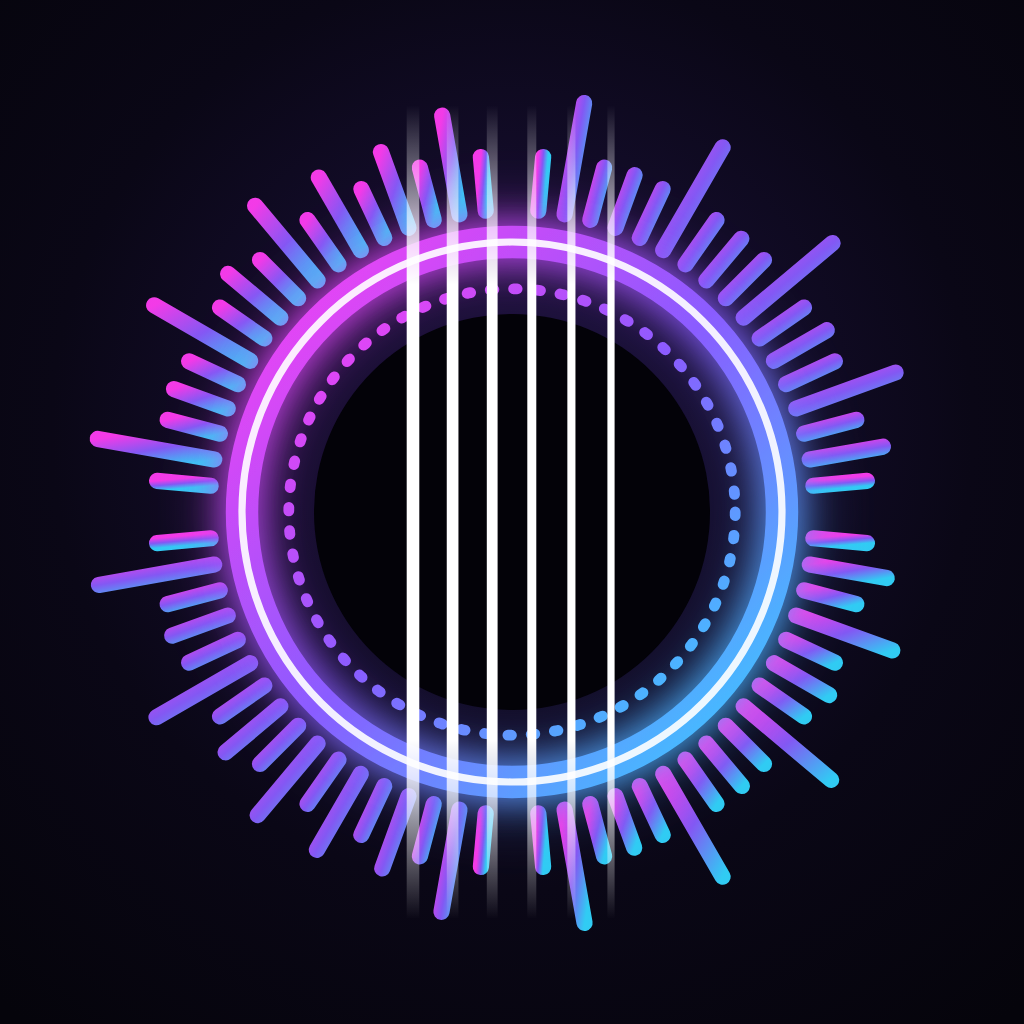
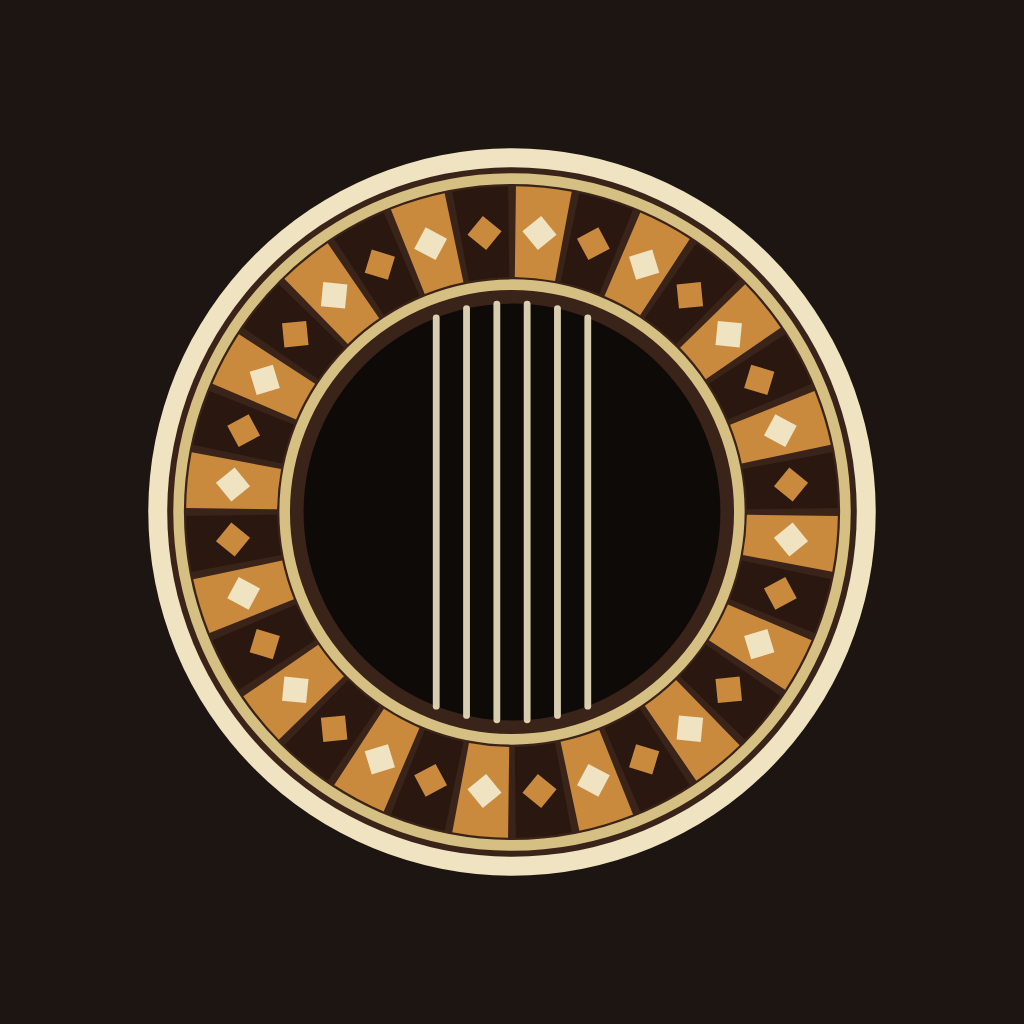
Ny logga: mosaikrosetten, även som appikon
- Rosetten runt ljudhålet, med mosaikring och strängar, i sidhuvudet (följer temat)
- Nya appikoner, favicon och startskärm på valnötsbrun bakgrund i stället för den gamla neonikonen
- Android-bygget använder valnötsbrun bakgrund för ikon och startskärm
- manifest: nya färger och beskrivning utan Guitar Hero
- sw.js VERSION v130

Claude-Session: https://claude.ai/code/session_01ECUgMogSAJEoXHiLmbF9aF

diff --git a/index.html b/index.html
@@ -3009,11 +3009,8 @@ const I = {
   mute: html`<svg class="icon" viewBox="0 0 24 24" fill="none" stroke="currentColor" stroke-width="2" stroke-linecap="round" stroke-linejoin="round" aria-hidden="true"><path d="M11 5 6 9H3v6h3l5 4V5z"/><path d="m22 9-6 6M16 9l6 6"/></svg>`,
   spark: html`<svg class="icon" viewBox="0 0 24 24" fill="none" stroke="currentColor" stroke-width="2" stroke-linecap="round" stroke-linejoin="round" aria-hidden="true"><path d="M12 3v4M12 17v4M3 12h4M17 12h4M6 6l2.5 2.5M15.5 15.5 18 18M6 18l2.5-2.5M15.5 8.5 18 6"/></svg>`,
 };
-const Rosette = html`<svg width="34" height="34" viewBox="0 0 34 34" aria-hidden="true">
-  <circle cx="17" cy="17" r="16" fill="var(--brass)"/>
-  <circle cx="17" cy="17" r="11.5" fill="none" stroke="var(--brass-ink)" stroke-width="1.4" stroke-dasharray="2 1.6"/>
-  <circle cx="17" cy="17" r="8.5" fill="var(--brass-ink)"/>
-  <path d="M10 15.5h14M10 18.5h14" stroke="var(--bone)" stroke-width=".9" opacity=".8"/></svg>`;
+// Mosaikrosetten: rosetten runt ljudhålet på en klassisk gitarr
+const Rosette = html`<svg width="34" height="34" viewBox="0 0 100 100" aria-hidden="true"><circle cx="50" cy="50" r="48" fill="var(--brass)"/><circle cx="50" cy="50" r="45.5" fill="var(--surface)"/><path d="M50.52 7.00A43 43 0 0 1 62.80 8.95L59.23 20.40A31 31 0 0 0 50.37 19.00Z" fill="var(--brass)"/><path d="M63.78 9.27A43 43 0 0 1 74.86 14.91L67.92 24.70A31 31 0 0 0 59.93 20.63Z" fill="var(--text)"/><path d="M75.69 15.52A43 43 0 0 1 84.48 24.31L74.86 31.48A31 31 0 0 0 68.52 25.14Z" fill="var(--brass)"/><path d="M85.09 25.14A43 43 0 0 1 90.73 36.22L79.37 40.07A31 31 0 0 0 75.30 32.08Z" fill="var(--text)"/><path d="M91.05 37.20A43 43 0 0 1 93.00 49.48L81.00 49.63A31 31 0 0 0 79.60 40.77Z" fill="var(--brass)"/><path d="M93.00 50.52A43 43 0 0 1 91.05 62.80L79.60 59.23A31 31 0 0 0 81.00 50.37Z" fill="var(--text)"/><path d="M90.73 63.78A43 43 0 0 1 85.09 74.86L75.30 67.92A31 31 0 0 0 79.37 59.93Z" fill="var(--brass)"/><path d="M84.48 75.69A43 43 0 0 1 75.69 84.48L68.52 74.86A31 31 0 0 0 74.86 68.52Z" fill="var(--text)"/><path d="M74.86 85.09A43 43 0 0 1 63.78 90.73L59.93 79.37A31 31 0 0 0 67.92 75.30Z" fill="var(--brass)"/><path d="M62.80 91.05A43 43 0 0 1 50.52 93.00L50.37 81.00A31 31 0 0 0 59.23 79.60Z" fill="var(--text)"/><path d="M49.48 93.00A43 43 0 0 1 37.20 91.05L40.77 79.60A31 31 0 0 0 49.63 81.00Z" fill="var(--brass)"/><path d="M36.22 90.73A43 43 0 0 1 25.14 85.09L32.08 75.30A31 31 0 0 0 40.07 79.37Z" fill="var(--text)"/><path d="M24.31 84.48A43 43 0 0 1 15.52 75.69L25.14 68.52A31 31 0 0 0 31.48 74.86Z" fill="var(--brass)"/><path d="M14.91 74.86A43 43 0 0 1 9.27 63.78L20.63 59.93A31 31 0 0 0 24.70 67.92Z" fill="var(--text)"/><path d="M8.95 62.80A43 43 0 0 1 7.00 50.52L19.00 50.37A31 31 0 0 0 20.40 59.23Z" fill="var(--brass)"/><path d="M7.00 49.48A43 43 0 0 1 8.95 37.20L20.40 40.77A31 31 0 0 0 19.00 49.63Z" fill="var(--text)"/><path d="M9.27 36.22A43 43 0 0 1 14.91 25.14L24.70 32.08A31 31 0 0 0 20.63 40.07Z" fill="var(--brass)"/><path d="M15.52 24.31A43 43 0 0 1 24.31 15.52L31.48 25.14A31 31 0 0 0 25.14 31.48Z" fill="var(--text)"/><path d="M25.14 14.91A43 43 0 0 1 36.22 9.27L40.07 20.63A31 31 0 0 0 32.08 24.70Z" fill="var(--brass)"/><path d="M37.20 8.95A43 43 0 0 1 49.48 7.00L49.63 19.00A31 31 0 0 0 40.77 20.40Z" fill="var(--text)"/><circle cx="50" cy="50" r="44" fill="none" stroke="var(--brass)" strokeWidth="2.2"/><circle cx="50" cy="50" r="30" fill="none" stroke="var(--brass)" strokeWidth="2.2"/><circle cx="50" cy="50" r="27.5" fill="#1a120d"/><line x1="40.00" y1="24.38" x2="40.00" y2="75.62" stroke="#efe3c2" strokeWidth="1.6" strokeLinecap="round" opacity=".9"/><line x1="44.00" y1="23.16" x2="44.00" y2="76.84" stroke="#efe3c2" strokeWidth="1.6" strokeLinecap="round" opacity=".9"/><line x1="48.00" y1="22.57" x2="48.00" y2="77.43" stroke="#efe3c2" strokeWidth="1.6" strokeLinecap="round" opacity=".9"/><line x1="52.00" y1="22.57" x2="52.00" y2="77.43" stroke="#efe3c2" strokeWidth="1.6" strokeLinecap="round" opacity=".9"/><line x1="56.00" y1="23.16" x2="56.00" y2="76.84" stroke="#efe3c2" strokeWidth="1.6" strokeLinecap="round" opacity=".9"/><line x1="60.00" y1="24.38" x2="60.00" y2="75.62" stroke="#efe3c2" strokeWidth="1.6" strokeLinecap="round" opacity=".9"/></svg>`;
 
 /* ---------------------------------------------------------------- components */
 function Diagram({ k, easy, selected, onClick, hide = false }) {

diff --git a/sw.js b/sw.js
@@ -1,6 +1,6 @@
 /* NylonGitarr Studio – service worker
    Höj VERSION när appen uppdateras, så hämtar telefonen den nya versionen. */
-const VERSION = 'v129';
+const VERSION = 'v130';
 const CACHE = 'nylongitarr-' + VERSION;
 const SHELL = ['./', 'index.html', 'video/scene.jpg', 'manifest.webmanifest', 'icons/icon-192.png', 'icons/icon-512.png', 'icons/maskable-512.png', 'icons/apple-touch-icon.png',
   ...['clap','cowbell','crash','hat-semi','hat','kick-deep','kick-tight','kick','ohat','ride-bell','ride','rim','shaker','snare-brush','snare-tight','snare','tamb','tom-hi','tom-lo','wood-hi','wood-lo'].map((n) => 'audio/drums/' + n + '.mp3'),
